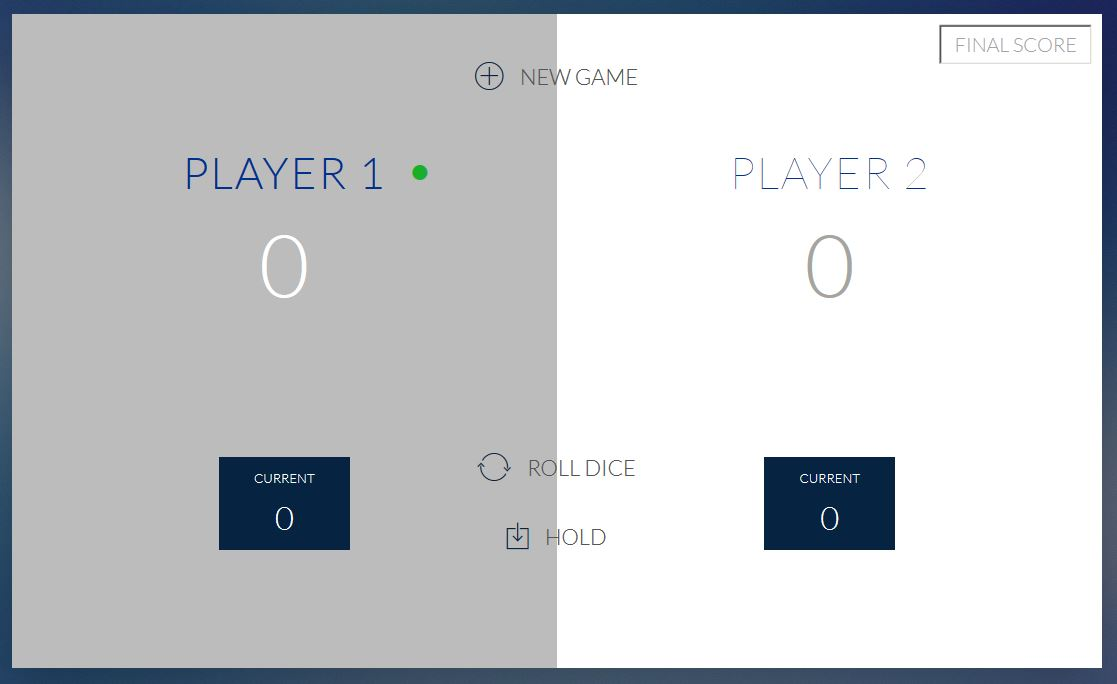
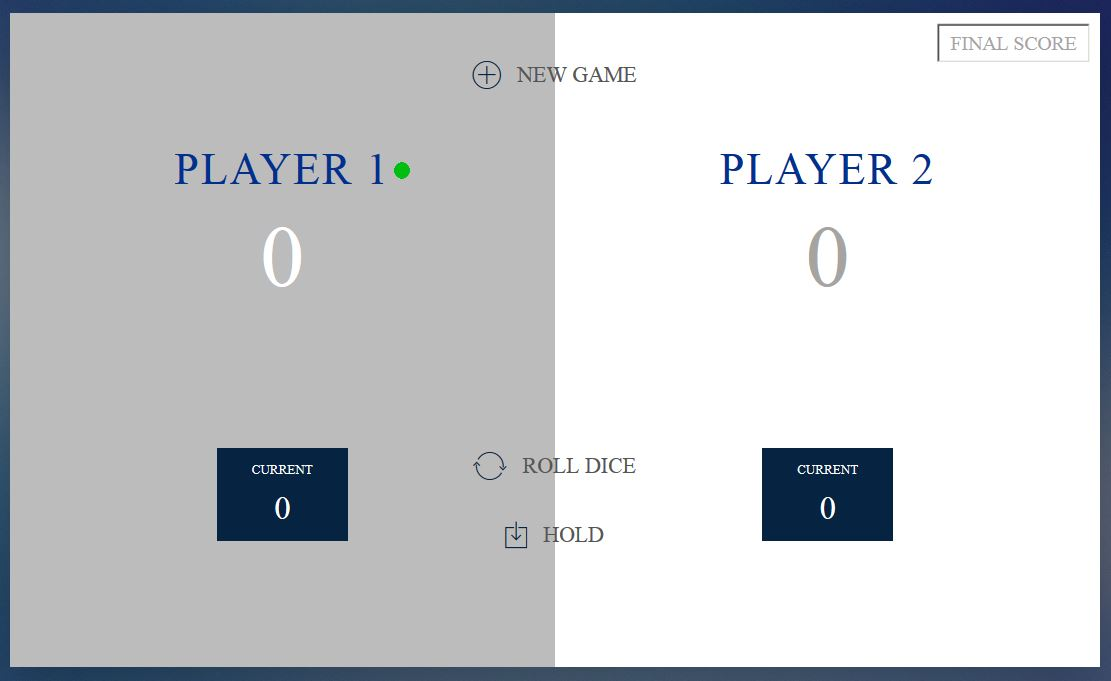
Improved all dice pictures, added blinking dot to indicate current player, updated game pictures, added cosmetic adjustments into index and style files.

diff --git a/style.css b/style.css
@@ -78,9 +78,9 @@ i {
     transition: margin 0.3s;
 }
 
-.btn-new { top: 45px;}
-.btn-roll { top: 403px;}
-.btn-hold { top: 467px;}
+.btn-new { top: 45px; }
+.btn-roll { top: 403px; }
+.btn-hold { top: 467px; }
 
 .final-score 
 {
@@ -146,12 +146,13 @@ i {
 .active .player-score { color: #ffffff; }
 
 .active .player-name::after {
-    content: "\2022";
-    font-size: 47px;
+    content: url(images/playerOn.gif);
+    font-size: 5px;
     position: absolute;
     color: #1AAF2B;
-    top: -7px;
-    right: 10px;
+    top: -126px;
+    right: -110px;
+    transform: scale(.05);
     
 }
 

diff --git a/index.html b/index.html
@@ -36,7 +36,6 @@
             <img src="images/dice-1.png" alt="Dice-1" class="dice" id="dice-1">
             <img src="images/dice-1.png" alt="Dice-1" class="dice" id="dice-2">
 
-            
             <input type="text" placeholder="final score" class="final-score">
         </div>
         
